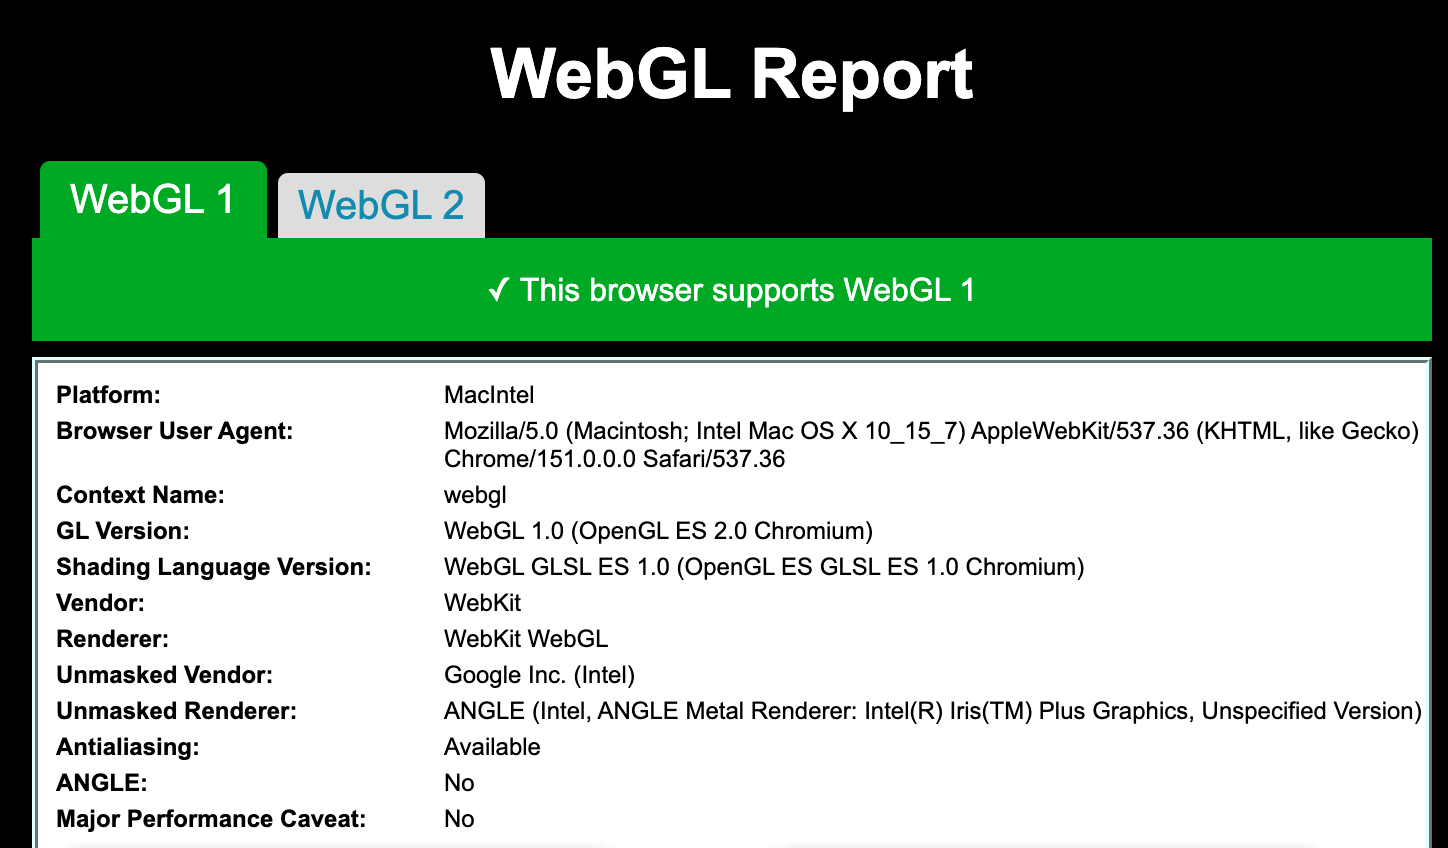
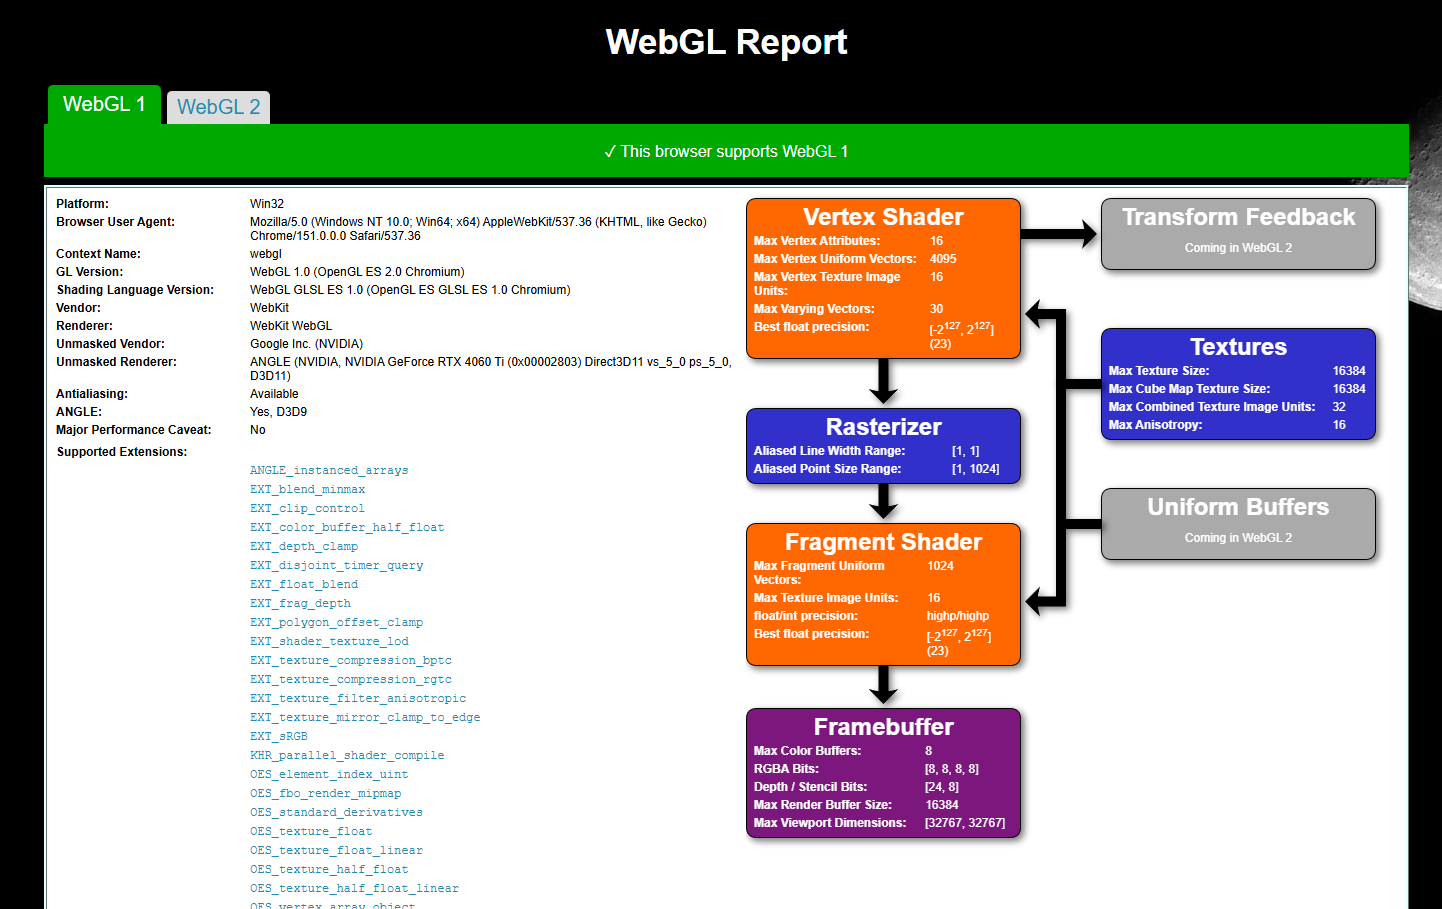
README images

diff --git a/cuda-gl-check/src/main.cpp b/cuda-gl-check/src/main.cpp
@@ -11,7 +11,7 @@
  */
 int main(int argc, char* argv[]) {
     // TODO: Change this line to use your name!
-    m_yourName = "TODO: YOUR NAME HERE";
+    m_yourName = "ROSE KELLY";
 
     if (init(argc, argv)) {
         mainLoop();

diff --git a/README.md b/README.md
@@ -3,11 +3,30 @@ Project 0 Getting Started
 
 **University of Pennsylvania, CIS 5650: GPU Programming and Architecture, Project 0**
 
-* (TODO) YOUR NAME HERE
+* Rose Kelly
   * (TODO) [LinkedIn](), [personal website](), [twitter](), etc.
-* Tested on: (TODO) Windows 22, i7-2222 @ 2.22GHz 22GB, GTX 222 222MB (Moore 2222 Lab)
+* Tested on: Windows 11, i7-13700F @ 2.10 GHz 16GB, RTX 4060-Ti 8GB (Personal Computer)
 
 ### (TODO: Your README)
 
 Include screenshots, analysis, etc. (Remember, this is public, so don't put
 anything here that you don't want to share with the world.)
+
+
+#### Part 2.1.2: Modify the CUDA Project and Take a Screenshot
+![](images/YourNameTodo.png)
+
+#### Nsight Debugging on Windows using Nsight Visual Studio Edition
+![](images/NsightDebug.png)
+
+#### Nsight Systems on Windows
+![](images/nsight%20systems.png)
+
+#### Nsight Compute on Windows
+![](images/nsightComputeFail.png)
+
+#### Part 2.2: Project Instructions - WebGL
+![](images/WebGL_1.png)
+
+#### Part 2.3: Project Instructions - WebGPU
+![](images/WebGPU.png)
